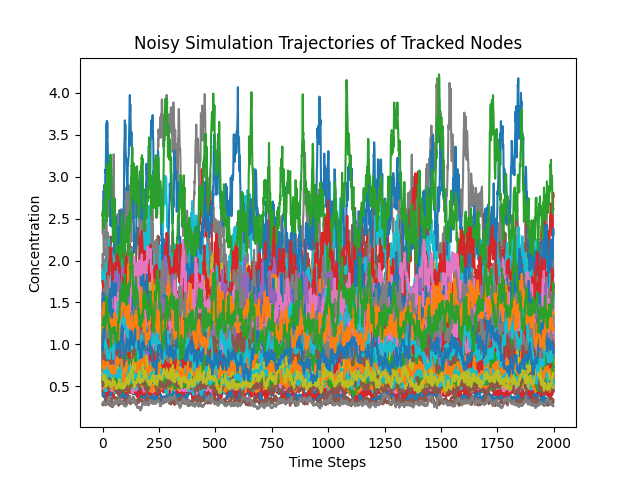
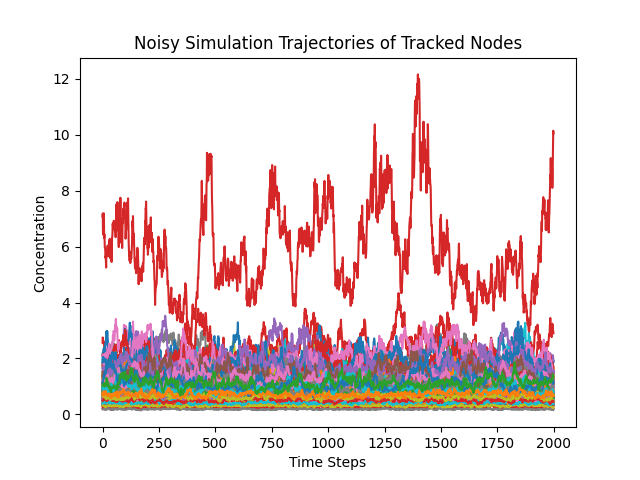
minor

diff --git a/simulation/simulator.py b/simulation/simulator.py
@@ -68,7 +68,7 @@ class Simulator:
         plt.savefig(os.path.join('simulation', 'figures', 'graph_nearest_neighbors.png'))
         plt.show()
 
-    def sample_kinetic_constants(self, mean=0, sigma=0.5, degr_sigma=0.1, prod_sigma=0.1):
+    def sample_kinetic_constants(self, mean=0, sigma=0.5, degr_sigma=0.2, prod_sigma=0.1):
         """Samples the logarithm of kinetic constants for each edge in the graph.
         Args:
             mean (float): Mean of the normal distribution.
@@ -118,7 +118,7 @@ class Simulator:
         self.concentrations = concentrations
         return self.concentrations
     
-    def run_equilibration(self, initial_concentrations=None, convergence_threshold=1e-3, max_iterations=10000, time_step=None, track_concentrations=[]):
+    def run_equilibration(self, initial_concentrations=None, convergence_threshold=1e-4, max_iterations=10000, time_step=None, track_concentrations=[]):
         """Run a temporal simulation until steady state is reached.
         Args:
             initial_concentrations (np.ndarray): Initial concentrations of the nodes.
@@ -136,7 +136,7 @@ class Simulator:
 
         num_nodes = self.kinetic_constants.shape[0]
         if initial_concentrations is None:
-            concentrations = np.ones(num_nodes)
+            concentrations = np.ones(num_nodes) 
 
         tracked_concentrations = [[] for node in track_concentrations]
 
